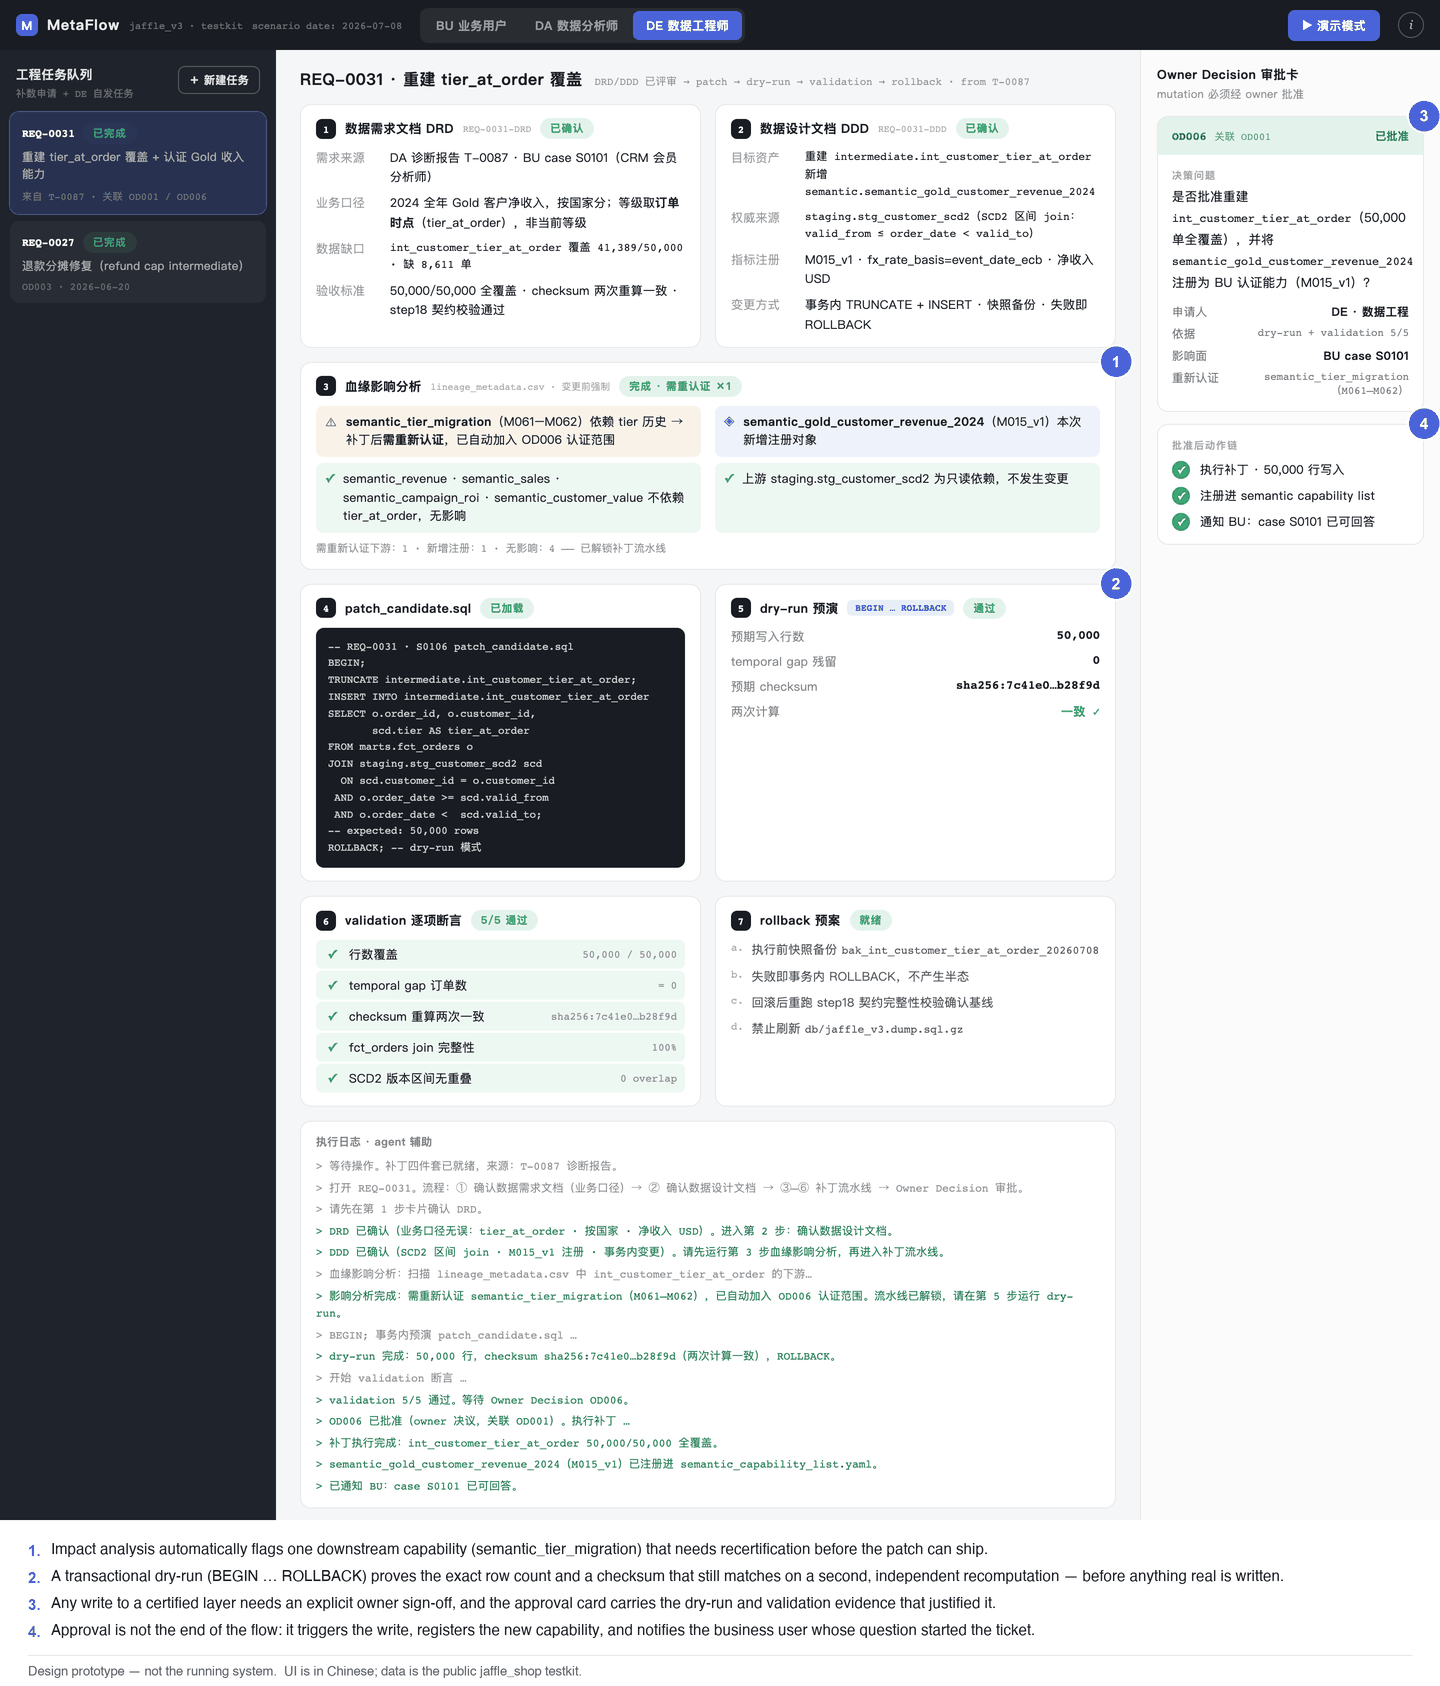
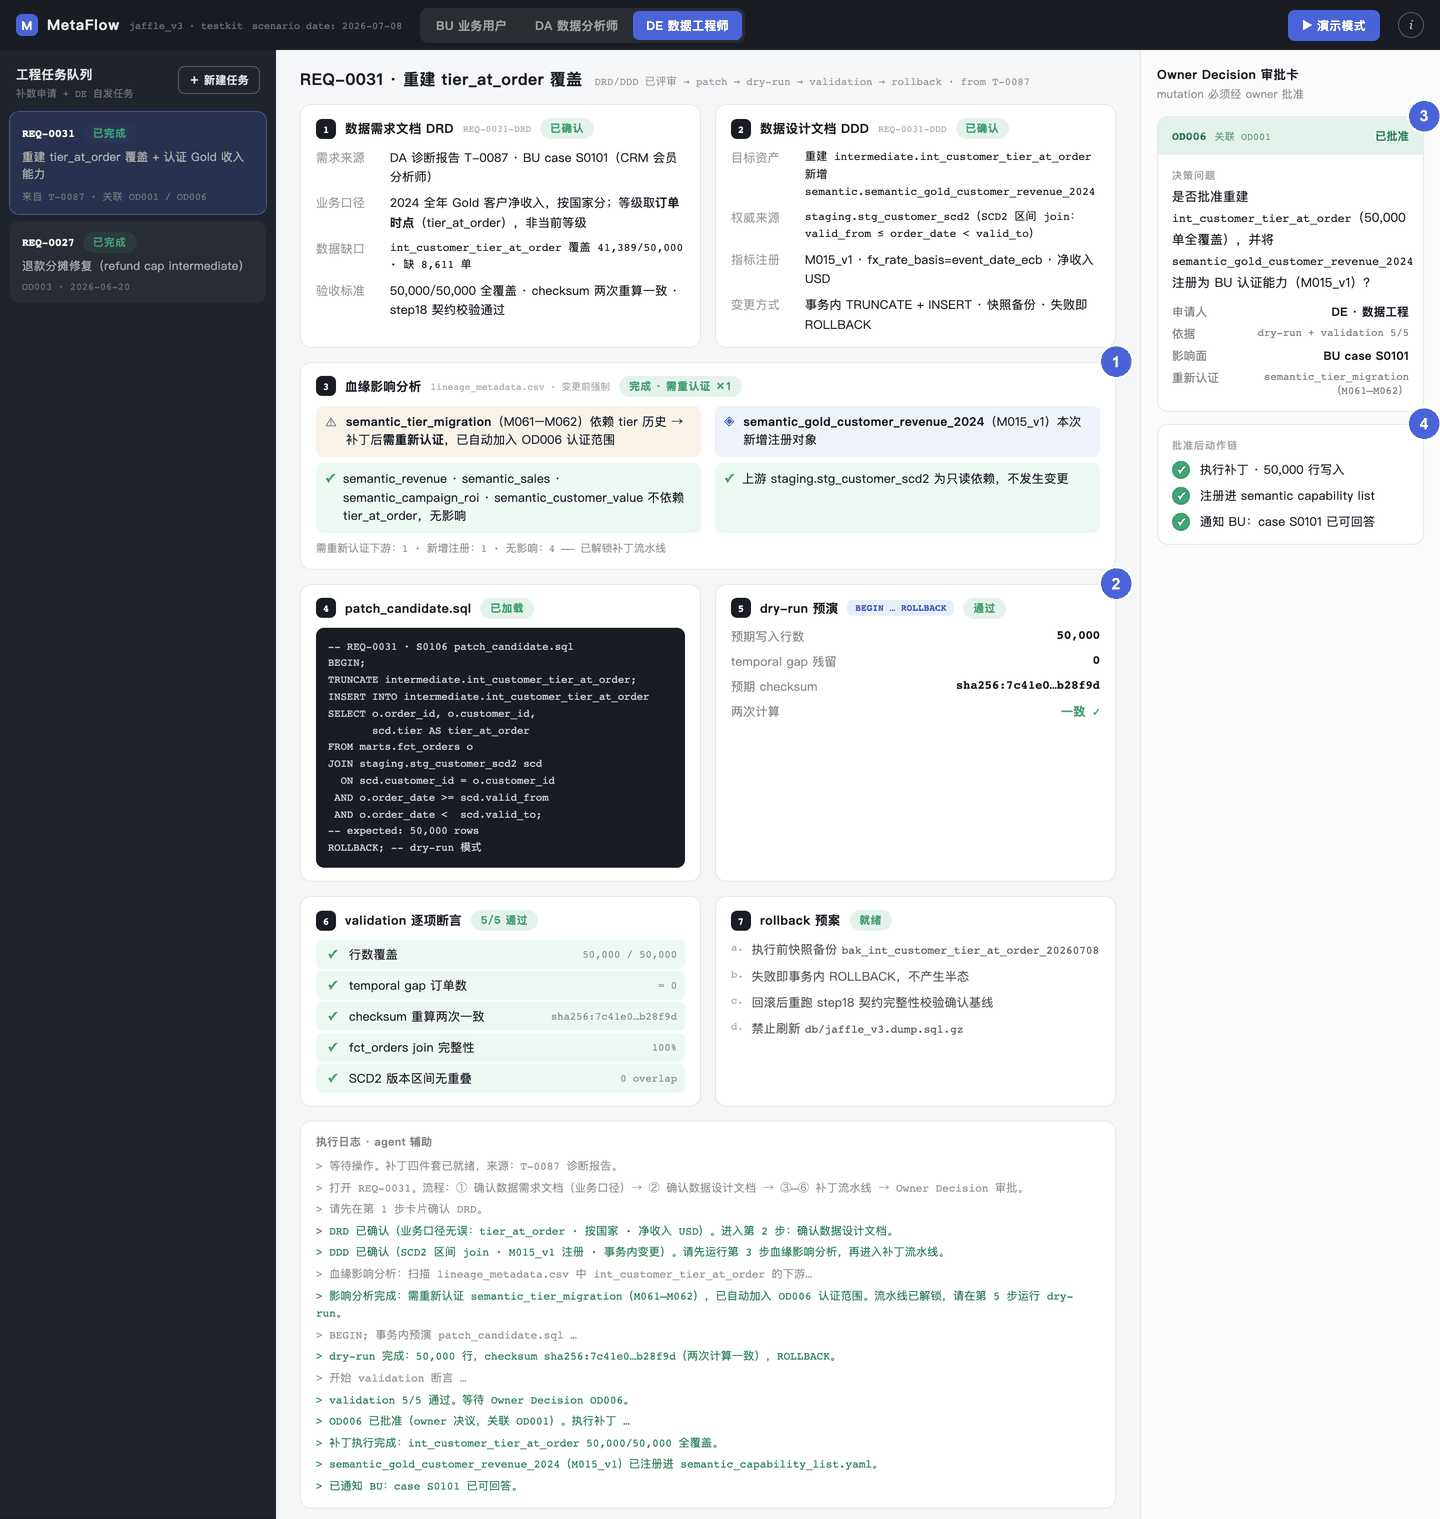
fix(R3): make DE console evidence readable, un-blank the prototype landing screen
R3 adversarial review blockers:
- Red 1: metaflow-de-console.png baked its 4 English annotations into the
  PNG, so they scaled to ~6px/3px and were unreadable at both viewports.
  Re-cut the screenshot: the 4 annotations are now a live, searchable HTML
  <ol> below the figure; the console itself is split into two content-sized
  panels (workflow, approval) each <=1200px native width instead of the
  original 1440px squeezed into a 632px column; both panels link to the
  clean full screenshot as an escape hatch, and the workflow panel gets a
  dedicated mobile crop via <picture>, matching the homepage hero pattern.
- Red 2: the interactive prototype (demos/metaflow-prototype.html) landed
  on an empty BU placeholder on both viewports. It now auto-plays demo act
  1 on mount (same code path as clicking the manual demo button), so the
  first screen shows a real question/MISS exchange instead of blank space.
  The wrapper notice now also points at Demo mode for the rest of the tour.

Also clears three flagged 🟡 items:
- Experience: the Lark internship and the concurrent undergraduate thesis
  overlap without explanation; thesis entry now notes it ran part-time
  alongside Lark, mirroring the Education section's existing overlap note.
- "Design prototype — not the running system" repeated 4x per figure on
  the MetaFlow page; consolidated to one statement per page (in the
  Prototype section's intro), matching index.html's existing single use.
[…]

diff --git a/work/metaflow/index.html b/work/metaflow/index.html
@@ -72,11 +72,12 @@ attached.</p>
 
 <section>
   <h2>Prototype</h2>
-  <p>These are screens from the design prototype for the studio, annotated in English. They
-  show the ideas the system is built around: answers are bounded by a certified
-  capability list, every answer carries provenance, anything out of scope is refused
-  explicitly rather than guessed, and the fix behind a refusal goes through lineage
-  analysis, a dry-run and an explicit owner approval before it ships.</p>
+  <p>These are screens from the design prototype for the studio, annotated in English.
+  <strong>Design prototype — not the running system.</strong> They show the ideas the system is
+  built around: answers are bounded by a certified capability list, every answer carries
+  provenance, anything out of scope is refused explicitly rather than guessed, and the fix
+  behind a refusal goes through lineage analysis, a dry-run and an explicit owner approval
+  before it ships.</p>
 
   <figure>
     <a href="/assets/img/metaflow-provenance.png" target="_blank" rel="noopener">
@@ -86,7 +87,6 @@ attached.</p>
     <figcaption>What to look at: this card is attached to every answer. It names the certified
       table the number came from, the metric version, and the definition the answer was bound to
       — so “where did this number come from” has an answer that is not a conversation.
-      <strong>Design prototype — not the running system.</strong>
       <span class="src">UI is in Chinese; data is the public <code>jaffle_shop</code>
       testkit.</span></figcaption>
   </figure>
@@ -99,7 +99,6 @@ attached.</p>
     <figcaption>What to look at: the refusal. A question outside the certified surface returns
       an explicit MISS that names the blocker — 8,611 orders with no historical tier coverage —
       and turns into a ticket in the analyst queue instead of a plausible-looking guess.
-      <strong>Design prototype — not the running system.</strong>
       <span class="src">UI is in Chinese; data is the public <code>jaffle_shop</code>
       testkit.</span></figcaption>
   </figure>
@@ -111,32 +110,63 @@ attached.</p>
     </a>
     <figcaption>What to look at: the catalog on the left is the whole answerable surface, and
       the metrics that failed certification are listed too — visible, and still unanswerable.
-      <strong>Design prototype — not the running system.</strong>
       <span class="src">UI is in Chinese; data is the public <code>jaffle_shop</code>
       testkit.</span></figcaption>
   </figure>
 
   <figure>
     <a href="/assets/img/metaflow-de-console.png" target="_blank" rel="noopener">
-    <img src="/assets/img/metaflow-de-console.png" width="1440" height="1686" loading="lazy"
-         alt="The DE engineering console for REQ-0031: DRD and DDD confirmed, a lineage impact
-         analysis flagging one downstream capability for recertification, a transactional
-         dry-run and five passing validation checks, and an approved Owner Decision with its
-         post-approval action chain — annotated in English.">
+    <picture>
+      <source media="(max-width: 899px)" srcset="/assets/img/metaflow-de-console-workflow-mobile.png">
+      <img src="/assets/img/metaflow-de-console-workflow.png" width="1142" height="1519"
+           alt="The DE engineering console for REQ-0031: DRD and DDD confirmed, a lineage
+           impact analysis marked 1 flagging one downstream capability for recertification, a
+           patch, a transactional dry-run marked 2, five passing validation checks, and a
+           rollback plan.">
+    </picture>
     </a>
-    <figcaption>What to look at: the step that turns a diagnosis into a shipped fix. Four
-      things happen before a byte is written for real — lineage impact analysis, a
-      transaction-scoped dry-run, a checksum recomputed twice, and an explicit owner
-      approval — and the approval itself triggers the write, the registration and the
-      notification back to the business user, all logged. <strong>Design prototype — not the
-      running system.</strong>
+    <figcaption><span class="only-mobile">What to look at: the impact analysis (marked 1) and
+      the dry-run (marked 2) — the two checks that run before a byte is written. Tap the image
+      above to open the full console at full size.</span>
+      <span class="only-desktop">What to look at: the impact analysis (marked 1) automatically
+      flags one downstream capability for recertification before the patch can ship; the
+      dry-run (marked 2) proves the row count and a checksum that still matches before anything
+      real is written. Tap the image above to open the full console at full size.</span>
       <span class="src">UI is in Chinese; data is the public <code>jaffle_shop</code>
       testkit.</span></figcaption>
   </figure>
 
+  <figure>
+    <a href="/assets/img/metaflow-de-console.png" target="_blank" rel="noopener">
+    <img src="/assets/img/metaflow-de-console-approval.png" width="310" height="526" loading="lazy"
+         alt="The Owner Decision approval card for OD006: an explicit owner approval marked 3,
+         and the post-approval action chain — execute the patch, register the capability,
+         notify the business user — marked 4.">
+    </a>
+    <figcaption>What to look at: the approval. Any write to a certified layer needs an explicit
+      owner sign-off (marked 3), and approval is not the end of the flow — it triggers the
+      write, the registration and the notification back to the business user, all logged
+      (marked 4). Tap the image above to open the full console at full size.
+      <span class="src">UI is in Chinese; data is the public <code>jaffle_shop</code>
+      testkit.</span></figcaption>
+  </figure>
+
+  <ol class="de-console-notes">
+    <li>Impact analysis automatically flags one downstream capability
+      (<code>semantic_tier_migration</code>) that needs recertification before the patch can
+      ship.</li>
+    <li>A transactional dry-run (<code>BEGIN … ROLLBACK</code>) proves the exact row count and a
+      checksum that still matches on a second, independent recomputation — before anything real
+      is written.</li>
+    <li>Any write to a certified layer needs an explicit owner sign-off, and the approval card
+      carries the dry-run and validation evidence that justified it.</li>
+    <li>Approval is not the end of the flow: it triggers the write, registers the new
+      capability, and notifies the business user whose question started the ticket.</li>
+  </ol>
+
   <p><a href="/demos/metaflow-prototype.html">Open the interactive prototype ↗</a><br>
-    <span class="note">UI is in Chinese; data is the public <code>jaffle_shop</code> testkit.
-    It is a design prototype, not the running system.</span></p>
+    <span class="note">UI is in Chinese; data is the public <code>jaffle_shop</code>
+    testkit.</span></p>
 </section>
 
 <section>

diff --git a/demos/metaflow-prototype.html b/demos/metaflow-prototype.html
@@ -1,5 +1,5 @@
 <!DOCTYPE html>
-<html lang="en">
+<html lang="zh">
 <head>
   <meta name="robots" content="noindex, nofollow">
 <meta charset="utf-8">
@@ -1736,8 +1736,8 @@
 </head>
 <body>
 <div id="mf-proto-notice">This prototype is a fixed-width desktop artifact — best viewed
-  on a larger screen. Annotated screenshots are on the
-  <a href="/work/metaflow/">MetaFlow page</a>.</div>
+  on a larger screen. Click ▶ Demo mode (top right) for a guided walkthrough. Annotated
+  screenshots are on the <a href="/work/metaflow/">MetaFlow page</a>.</div>
 <x-dc>
 <helmet>
 <style>
@@ -2414,6 +2414,12 @@ class Component extends DCLogic {
     this.buScroll = React.createRef();
     this.daScroll = React.createRef();
     this.timers = [];
+  }
+  componentDidMount(){
+    // Land on a populated first screen instead of the empty BU placeholder —
+    // this plays the same "BU asks, hits a MISS" sequence as clicking act 1
+    // in the demo-mode panel manually would.
+    this.playAct(1);
   }
   componentWillUnmount(){ this.timers.forEach(clearTimeout); }
   componentDidUpdate(){

diff --git a/index.html b/index.html
@@ -91,7 +91,8 @@
   <!-- 2 -->
   <article class="item">
     <h3>LLM Data Flywheel for In-Vehicle Voice Assistants</h3>
-    <p class="role">Jun – Aug 2026 · Undergraduate thesis, UM–SJTU Joint Institute · Python</p>
+    <p class="role">Jun – Aug 2026 · Undergraduate thesis (part-time, alongside the Lark
+      internship below), UM–SJTU Joint Institute · Python</p>
     <p>I owned the data pillar of a multi-model in-vehicle voice assistant: instead of
       generating more training data everywhere, measure first, then regenerate only where the
       failures are.</p>

diff --git a/assets/css/site.css b/assets/css/site.css
@@ -72,8 +72,10 @@ a { color: var(--link); text-decoration: underline; text-underline-offset: 2px; 
 a:hover { text-decoration-thickness: 2px; }
 a:focus-visible { outline: 2px solid var(--link); outline-offset: 2px; border-radius: 2px; }
 
-ul { margin: 0 0 16px; padding-left: 20px; }
+ul, ol { margin: 0 0 16px; padding-left: 20px; }
 li { margin-bottom: 4px; }
+
+.de-console-notes { font-size: 15px; }
 
 hr { border: 0; border-top: 1px solid var(--rule); margin: 40px 0; }
 
